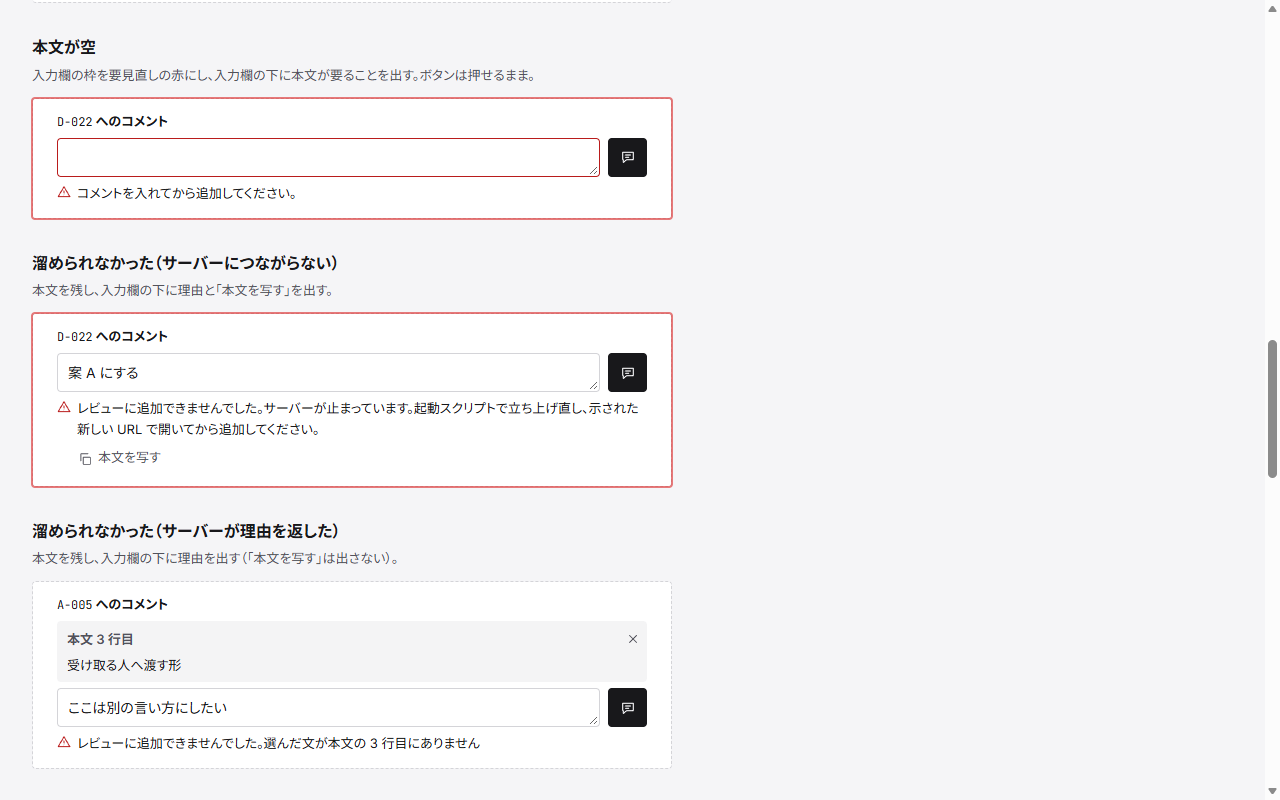
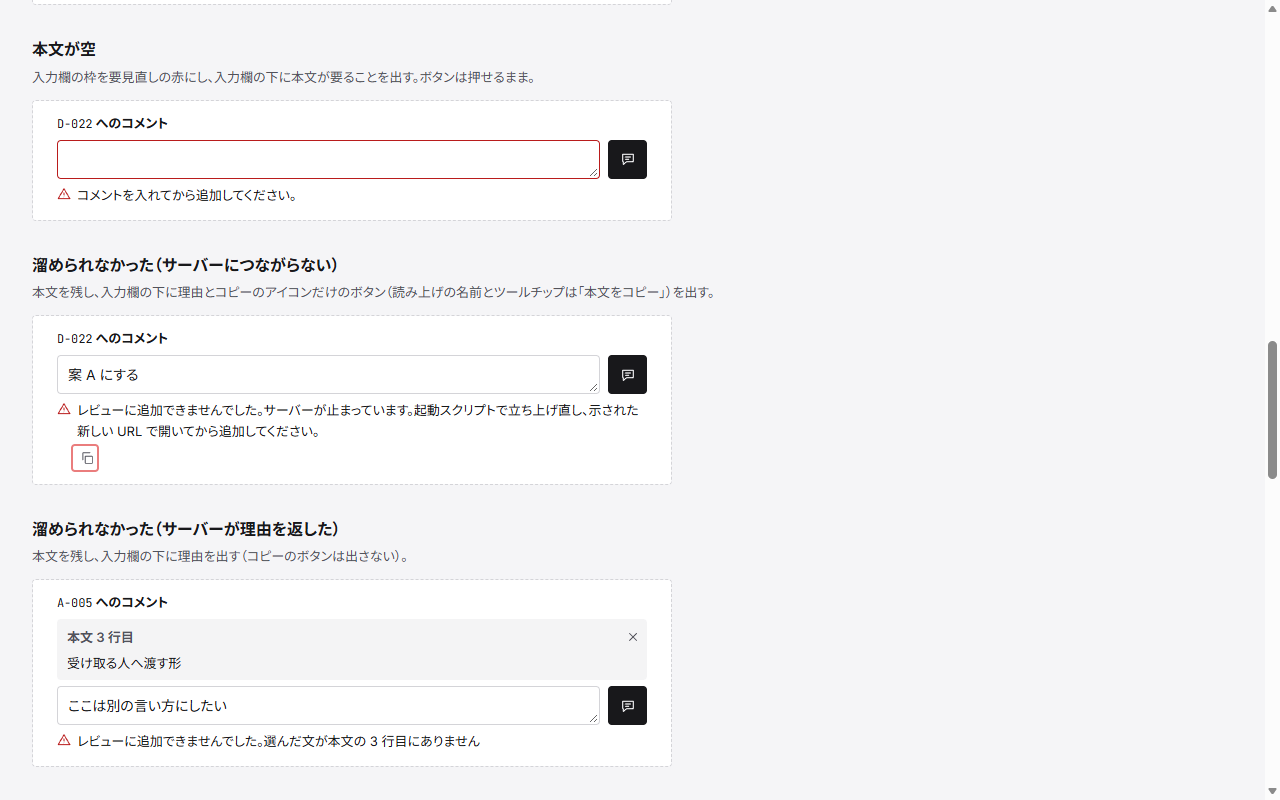
docs: モックの合意を反映し、本文のコピーをアイコンだけのボタンにする (#473)

diff --git a/dev/mock/components/send-form/index.html b/dev/mock/components/send-form/index.html
@@ -92,12 +92,12 @@
     </section>
     <section class="cat-sec">
       <h2>溜められなかった（サーバーにつながらない）</h2>
-      <p>本文を残し、入力欄の下に理由と「本文を写す」を出す。</p>
-      <div class="stage"><form class="send send-footer" novalidate onsubmit="return false"><label class="send-label" for="sf-9"><span class="mono">D-022</span> へのコメント</label><div class="send-line"><textarea id="sf-9" name="body" rows="1" aria-keyshortcuts="Control+Enter" aria-describedby="sf-9-msg">案 A にする</textarea><button class="icon-btn send-submit" type="submit" aria-label="レビューに追加" title="レビューに追加（Ctrl+Enter）"><svg class="icon" viewBox="0 0 24 24" aria-hidden="true"><path d="M4 5h16v11H10l-5 4v-4H4Z"/><path d="M8 9h8M8 12.5h5"/></svg></button></div><p class="send-msg failed" id="sf-9-msg" role="status"><svg class="icon" viewBox="0 0 24 24" aria-hidden="true"><path d="M12 3 2 20h20Z"/><path d="M12 10v4M12 17h.01"/></svg><span class="send-msg-body"><span>レビューに追加できませんでした。サーバーが止まっています。起動スクリプトで立ち上げ直し、示された新しい URL で開いてから追加してください。</span><button class="btn ghost send-copy" type="button"><svg class="icon" viewBox="0 0 24 24" aria-hidden="true"><rect x="9" y="9" width="12" height="12" rx="1"/><path d="M5 15V4a1 1 0 0 1 1-1h11"/></svg>本文を写す</button></span></p></form></div>
+      <p>本文を残し、入力欄の下に理由とコピーのアイコンだけのボタン（読み上げの名前とツールチップは「本文をコピー」）を出す。</p>
+      <div class="stage"><form class="send send-footer" novalidate onsubmit="return false"><label class="send-label" for="sf-9"><span class="mono">D-022</span> へのコメント</label><div class="send-line"><textarea id="sf-9" name="body" rows="1" aria-keyshortcuts="Control+Enter" aria-describedby="sf-9-msg">案 A にする</textarea><button class="icon-btn send-submit" type="submit" aria-label="レビューに追加" title="レビューに追加（Ctrl+Enter）"><svg class="icon" viewBox="0 0 24 24" aria-hidden="true"><path d="M4 5h16v11H10l-5 4v-4H4Z"/><path d="M8 9h8M8 12.5h5"/></svg></button></div><p class="send-msg failed" id="sf-9-msg" role="status"><svg class="icon" viewBox="0 0 24 24" aria-hidden="true"><path d="M12 3 2 20h20Z"/><path d="M12 10v4M12 17h.01"/></svg><span class="send-msg-body"><span>レビューに追加できませんでした。サーバーが止まっています。起動スクリプトで立ち上げ直し、示された新しい URL で開いてから追加してください。</span><button class="icon-btn send-copy-icon" type="button" aria-label="本文をコピー" title="本文をコピー"><svg class="icon" viewBox="0 0 24 24" aria-hidden="true"><rect x="9" y="9" width="12" height="12" rx="1"/><path d="M5 15V4a1 1 0 0 1 1-1h11"/></svg></button></span></p></form></div>
     </section>
     <section class="cat-sec">
       <h2>溜められなかった（サーバーが理由を返した）</h2>
-      <p>本文を残し、入力欄の下に理由を出す（「本文を写す」は出さない）。</p>
+      <p>本文を残し、入力欄の下に理由を出す（コピーのボタンは出さない）。</p>
       <div class="stage"><form class="send send-footer" novalidate onsubmit="return false"><label class="send-label" for="sf-9d"><span class="mono">A-005</span> へのコメント</label><div class="send-loc" id="sf-9d-loc"><div class="send-loc-head"><span class="send-loc-name">本文 3 行目</span><button class="icon-btn send-unquote" type="button" aria-label="箇所を外す" title="箇所を外す"><svg class="icon" viewBox="0 0 24 24" aria-hidden="true"><path d="M18 6 6 18M6 6l12 12"/></svg></button></div><blockquote class="send-quote">受け取る人へ渡す形</blockquote></div><div class="send-line"><textarea id="sf-9d" name="body" rows="1" aria-keyshortcuts="Control+Enter" aria-describedby="sf-9d-loc sf-9d-msg">ここは別の言い方にしたい</textarea><button class="icon-btn send-submit" type="submit" aria-label="レビューに追加" title="レビューに追加（Ctrl+Enter）"><svg class="icon" viewBox="0 0 24 24" aria-hidden="true"><path d="M4 5h16v11H10l-5 4v-4H4Z"/><path d="M8 9h8M8 12.5h5"/></svg></button></div><p class="send-msg failed" id="sf-9d-msg" role="status"><svg class="icon" viewBox="0 0 24 24" aria-hidden="true"><path d="M12 3 2 20h20Z"/><path d="M12 10v4M12 17h.01"/></svg><span>レビューに追加できませんでした。選んだ文が本文の 3 行目にありません</span></p></form></div>
     </section>
     <section class="cat-sec">
@@ -146,7 +146,7 @@ ID の等幅は残す。
     <section class="cat-sec">
       <h2>狭い幅（390px）</h2>
       <p>部品の幅によらず入力欄とボタンを 1 行に並べ、結果は入力欄の下に幅いっぱいで出す。</p>
-      <div class="stage narrow"><form class="send send-footer" novalidate onsubmit="return false"><label class="send-label" for="sf-14"><span class="mono">D-022</span> へのコメント</label><div class="send-loc" id="sf-14-loc"><div class="send-loc-head"><span class="send-loc-name">本文 3 行目</span><button class="icon-btn send-unquote" type="button" aria-label="箇所を外す" title="箇所を外す"><svg class="icon" viewBox="0 0 24 24" aria-hidden="true"><path d="M18 6 6 18M6 6l12 12"/></svg></button></div><blockquote class="send-quote">受け取る人へ渡す形</blockquote></div><div class="send-line"><textarea id="sf-14" name="body" rows="1" aria-keyshortcuts="Control+Enter" aria-describedby="sf-14-loc sf-14-msg">案 A にする</textarea><button class="icon-btn send-submit" type="submit" aria-label="レビューに追加" title="レビューに追加（Ctrl+Enter）"><svg class="icon" viewBox="0 0 24 24" aria-hidden="true"><path d="M4 5h16v11H10l-5 4v-4H4Z"/><path d="M8 9h8M8 12.5h5"/></svg></button></div><p class="send-msg failed" id="sf-14-msg" role="status"><svg class="icon" viewBox="0 0 24 24" aria-hidden="true"><path d="M12 3 2 20h20Z"/><path d="M12 10v4M12 17h.01"/></svg><span class="send-msg-body"><span>レビューに追加できませんでした。サーバーが止まっています。起動スクリプトで立ち上げ直し、示された新しい URL で開いてから追加してください。</span><button class="btn ghost send-copy" type="button"><svg class="icon" viewBox="0 0 24 24" aria-hidden="true"><rect x="9" y="9" width="12" height="12" rx="1"/><path d="M5 15V4a1 1 0 0 1 1-1h11"/></svg>本文を写す</button></span></p></form></div>
+      <div class="stage narrow"><form class="send send-footer" novalidate onsubmit="return false"><label class="send-label" for="sf-14"><span class="mono">D-022</span> へのコメント</label><div class="send-loc" id="sf-14-loc"><div class="send-loc-head"><span class="send-loc-name">本文 3 行目</span><button class="icon-btn send-unquote" type="button" aria-label="箇所を外す" title="箇所を外す"><svg class="icon" viewBox="0 0 24 24" aria-hidden="true"><path d="M18 6 6 18M6 6l12 12"/></svg></button></div><blockquote class="send-quote">受け取る人へ渡す形</blockquote></div><div class="send-line"><textarea id="sf-14" name="body" rows="1" aria-keyshortcuts="Control+Enter" aria-describedby="sf-14-loc sf-14-msg">案 A にする</textarea><button class="icon-btn send-submit" type="submit" aria-label="レビューに追加" title="レビューに追加（Ctrl+Enter）"><svg class="icon" viewBox="0 0 24 24" aria-hidden="true"><path d="M4 5h16v11H10l-5 4v-4H4Z"/><path d="M8 9h8M8 12.5h5"/></svg></button></div><p class="send-msg failed" id="sf-14-msg" role="status"><svg class="icon" viewBox="0 0 24 24" aria-hidden="true"><path d="M12 3 2 20h20Z"/><path d="M12 10v4M12 17h.01"/></svg><span class="send-msg-body"><span>レビューに追加できませんでした。サーバーが止まっています。起動スクリプトで立ち上げ直し、示された新しい URL で開いてから追加してください。</span><button class="icon-btn send-copy-icon" type="button" aria-label="本文をコピー" title="本文をコピー"><svg class="icon" viewBox="0 0 24 24" aria-hidden="true"><rect x="9" y="9" width="12" height="12" rx="1"/><path d="M5 15V4a1 1 0 0 1 1-1h11"/></svg></button></span></p></form></div>
     </section>
     <section class="cat-sec">
       <h2>最も狭い幅（320px）</h2>

diff --git a/dev/mock/refs/473/assets/style.css b/dev/mock/refs/473/assets/style.css
@@ -25,3 +25,8 @@
 .send > .send-msg { min-height: 0; padding-top: 0; }
 /* 結果が無い結果の行: 行を出さない */
 .send > .send-msg:empty { display: none; }
+
+/* 本文のコピー: 理由の下に置くアイコンだけのボタン。左端を理由の文の頭に合わせる */
+.send-copy-icon { width: var(--target-min); height: var(--target-min); margin-left: -4px; }
+/* 本文のコピーのアイコン: 結果の行の印と同じ大きさにし、文字の色にする */
+.send-msg .send-copy-icon svg.icon { width: 14px; height: 14px; margin-top: 0; color: currentColor; }

diff --git a/dev/pr/473/要件.md b/dev/pr/473/要件.md
@@ -15,28 +15,9 @@
 | 押せない状態 | 今のまま変えない（コメントの入力は `saving` の間、返信の入力は入力欄が空白だけの間と `saving` の間） |
 | キーの操作 | Ctrl+Enter（macOS は Cmd+Enter）で溜める操作と、Tab でボタンに届くことは変えない |
 | 畳んだ形 | コメントの入力の畳んだ形（`collapsed`）は今のまま、ボタンと結果を出さない |
+| ボタンの縦の位置 | 入力欄が複数行に伸びたときは、ボタンを入力欄の下端に合わせる |
+| ボタンのアイコン | 今と同じ吹き出し（`comment`）のアイコンにする |
 | アイコンのボタンの見た目 | 1 行の入力欄と同じ高さの正方形の、主な操作の色で塗ったボタンにする。タッチが主な端末（`pointer: coarse`）では 44 x 44 CSS px にし、1 行の入力欄も同じ高さにする。[#245](https://github.com/shuhei1101/mindstella/issues/245) の選んだ箇所の入口のボタンは、塗りではなく、アイコンだけにすることと読み上げの名前・ツールチップの持ち方をこのボタンに統一する |
+| 本文のコピー | コメントの入力の、サーバーにつながらず溜められなかったときに出す「本文を写す」を、コピーのアイコンだけのボタンにする。読み上げの名前とツールチップは「本文をコピー」にする |
 
 <!-- /table -->
-
-`未確定`: 入力欄が複数行に伸びたときのボタンの縦の位置（決める段: モック作成）
-
-| 案 | 内容 | メリット | デメリット |
-| --- | --- | --- | --- |
-| A | 入力欄の下端に合わせる | 書き終えた位置の近くで押せる。チャットの入力と同じ並び | 1 行のときと 8 行のときでボタンの位置が動く |
-| B | 入力欄の上端に合わせる | ボタンの位置が動かない | 長文を書いた後に押すまでの距離が長い |
-
-推奨: A
-
-書き終えた位置の近くで押せるほうが、溜める操作に手を移す距離が短いため。
-
-`未確定`: ボタンのアイコン（決める段: モック作成）
-
-| 案 | 内容 | メリット | デメリット |
-| --- | --- | --- | --- |
-| A | 今と同じ吹き出し（`comment`） | 今の画面と同じで、コメントのマーカーと意味が統一される | 送信の操作だと読み取りにくい |
-| B | 紙飛行機の送信のアイコンを追加する | 押すと溜まる操作だと読み取りやすい | まとめて送る操作（レビュー中の書き込み）と取り違えやすい |
-
-推奨: A
-
-ここでは送らずにレビュー中に溜めるため、まとめて送る操作と取り違えないアイコンにする。

diff --git a/dev/pr/473/プレビュー.md b/dev/pr/473/プレビュー.md
@@ -24,9 +24,10 @@
 
 | 対象 | 方針 | 補足 |
 | --- | --- | --- |
-| ボタン | アイコンだけのボタン（React は `Button` の `size="icon"`）にし、`aria-label`「レビューに追加」と `title`「レビューに追加（Ctrl+Enter）」を持たせる | アイコンは `未確定`（[要件](./要件.md)） |
-| 配置 | 入力欄とボタンを 1 行に並べ、入力欄を残りの幅いっぱいに広げる。結果の行は入力欄の下に幅いっぱいで出し、空の間は高さを取らない | ボタンの縦の位置は `未確定`（[要件](./要件.md)） |
+| ボタン | アイコンだけのボタン（React は `Button` の `size="icon"`）にし、`aria-label`「レビューに追加」と `title`「レビューに追加（Ctrl+Enter）」を持たせる | アイコンは今と同じ吹き出し（`comment`） |
+| 配置 | 入力欄とボタンを 1 行に並べ、入力欄を残りの幅いっぱいに広げる。結果の行は入力欄の下に幅いっぱいで出し、空の間は高さを取らない | ボタンは入力欄の下端に合わせる |
 | 狭い幅 | 部品の幅によらず同じ並びにし、結果を下の行に移すコンテナクエリ（`@max-send-narrow`・`.send-row` の折り返し）を不要にする | Narrow のストーリーは残し、390px・320px で入力欄がつぶれないことを確認する |
+| 本文のコピー | コメントの入力の「本文を写す」を、コピーのアイコンだけのボタン（`aria-label`・`title` は「本文をコピー」）にする | 理由の文の下に置く |
 | 押せない状態・キーの操作 | 変更しない | - |
 | アクセシビリティ | 読み上げの名前とツールチップは変えず、フォーカスの輪は既存のボタンと同じにする。タップ領域は 1 行の入力欄と同じ高さの正方形で、タッチが主な端末では 44 x 44 CSS px にする | - |
 | 既存機能への影響 | `get_by_role("button", name="レビューに追加")` で押す E2E・結合テストは読み上げの名前が変わらないため変更しない | - |
